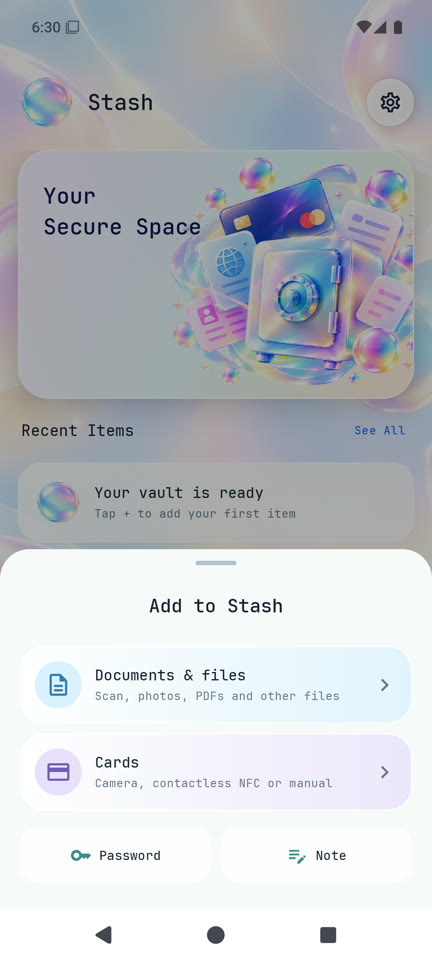
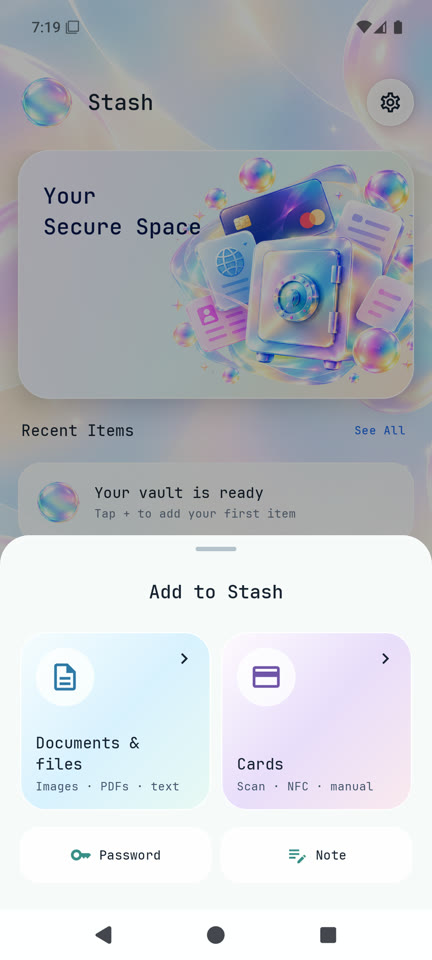
Polish add picker and document review

diff --git a/app/src/main/java/com/lockr/app/ReviewItemScreen.kt b/app/src/main/java/com/lockr/app/ReviewItemScreen.kt
@@ -1,25 +1,37 @@
 package com.lockr.app
 
-import android.content.Context
 import androidx.compose.foundation.background
+import androidx.compose.foundation.border
 import androidx.compose.foundation.clickable
 import androidx.compose.foundation.layout.Arrangement
+import androidx.compose.foundation.layout.Box
 import androidx.compose.foundation.layout.Column
 import androidx.compose.foundation.layout.Row
 import androidx.compose.foundation.layout.Spacer
 import androidx.compose.foundation.layout.fillMaxSize
 import androidx.compose.foundation.layout.fillMaxWidth
 import androidx.compose.foundation.layout.height
+import androidx.compose.foundation.layout.heightIn
 import androidx.compose.foundation.layout.padding
+import androidx.compose.foundation.layout.size
 import androidx.compose.foundation.rememberScrollState
 import androidx.compose.foundation.shape.RoundedCornerShape
 import androidx.compose.foundation.verticalScroll
 import androidx.compose.material3.Button
-import androidx.compose.material3.FilterChip
+import androidx.compose.material3.AlertDialog
+import androidx.compose.material3.Icon
 import androidx.compose.material3.MaterialTheme
 import androidx.compose.material3.OutlinedTextField
+import androidx.compose.material3.OutlinedTextFieldDefaults
 import androidx.compose.material3.Text
+import androidx.compose.material3.TextButton
 import androidx.compose.material.icons.Icons
+import androidx.compose.material.icons.outlined.Badge
+import androidx.compose.material.icons.outlined.Folder
+import androidx.compose.material.icons.outlined.MedicalServices
+import androidx.compose.material.icons.outlined.ReceiptLong
+import androidx.compose.material.icons.outlined.Shield
+import androidx.compose.material.icons.outlined.TextSnippet
 import androidx.compose.material.icons.outlined.Visibility
 import androidx.compose.material.icons.outlined.VisibilityOff
 import androidx.compose.runtime.Composable
@@ -30,9 +42,12 @@ import androidx.compose.runtime.remember
 import androidx.compose.runtime.setValue
 import androidx.compose.ui.Modifier
 import androidx.compose.ui.draw.clip
+import androidx.compose.ui.graphics.Brush
 import androidx.compose.ui.graphics.Color
+import androidx.compose.ui.graphics.vector.ImageVector
 import androidx.compose.ui.platform.LocalContext
 import androidx.compose.ui.unit.dp
+import androidx.compose.ui.unit.sp
 
 @Composable
 fun ReviewItemScreen(
@@ -43,24 +58,20 @@ fun ReviewItemScreen(
 ) {
     val context = LocalContext.current
     var title by remember(attachments) { mutableStateOf(suggestedItemTitle(attachments.firstOrNull()?.name.orEmpty(), "")) }
+    var titleTouched by remember(attachments) { mutableStateOf(false) }
     var documentGroup by remember(attachments) { mutableStateOf("Other") }
     var extractedText by remember(attachments) { mutableStateOf("") }
     var isRecognizing by remember(attachments) { mutableStateOf(true) }
-    var ocrMessage by remember(attachments) { mutableStateOf("Reading text on this device…") }
     var showExtractedText by remember { mutableStateOf(false) }
 
     LaunchedEffect(attachments) {
         isRecognizing = true
         val extracted = mutableListOf<String>()
-        var anySupported = false
         attachments.forEach { attachment ->
             try {
                 val text = recognizeAttachmentText(context, attachment)
                 if (text.isNotBlank()) {
-                    anySupported = true
                     extracted += "${attachment.name}\n${redactPaymentSecrets(text)}"
-                } else if (attachment.mimeType.startsWith("image/") || attachment.mimeType == "application/pdf" || attachment.mimeType.startsWith("text/")) {
-                    anySupported = true
                 }
             } catch (_: Exception) {
                 // The original attachment remains savable if local OCR cannot process it.
@@ -68,63 +79,68 @@ fun ReviewItemScreen(
         }
         extractedText = extracted.joinToString("\n\n").take(120_000)
         documentGroup = suggestedDocumentGroup(attachments.firstOrNull()?.name.orEmpty(), extractedText)
-        title = suggestedItemTitle(attachments.firstOrNull()?.name.orEmpty(), extractedText)
-        ocrMessage = when {
-            extractedText.isNotBlank() -> "Text extracted locally · review before saving"
-            anySupported -> "No readable text found. The original file can still be saved."
-            else -> "Text recognition is not available for this file type. The original can still be saved."
-        }
+        if (!titleTouched) title = suggestedItemTitle(attachments.firstOrNull()?.name.orEmpty(), extractedText)
         isRecognizing = false
     }
 
     Column(modifier.fillMaxSize().padding(horizontal = 20.dp)) {
-        StashTopBar(title = "Review document", subtitle = "Check the file before saving", onBack = onBack)
+        StashTopBar(title = "Review document", onBack = onBack)
         Column(Modifier.weight(1f).verticalScroll(rememberScrollState()), verticalArrangement = Arrangement.spacedBy(16.dp)) {
             attachments.firstOrNull()?.let { first ->
-                VaultAttachmentPreview(first, Modifier.fillMaxWidth().height(272.dp))
+                Box(Modifier.fillMaxWidth().clip(RoundedCornerShape(23.dp))
+                    .background(Color.White.copy(alpha = 0.91f)).border(1.dp, Color.White, RoundedCornerShape(23.dp))
+                    .padding(7.dp)) {
+                    VaultAttachmentPreview(first, Modifier.fillMaxWidth().height(265.dp))
+                }
             }
             if (attachments.size > 1) {
-                Text("${attachments.size} pages or files", color = LockrColors.TextSecondary, style = MaterialTheme.typography.bodySmall)
+                Text("${attachments.size} pages or files", color = LockrColors.TextPrimary, style = MaterialTheme.typography.bodyMedium)
                 VaultAttachmentsSection(attachments.drop(1), Modifier.fillMaxWidth())
             }
-            OutlinedTextField(
-                value = title,
-                onValueChange = { title = it.take(80) },
-                label = { Text("Title") },
-                singleLine = true,
-                shape = RoundedCornerShape(17.dp),
-                modifier = Modifier.fillMaxWidth()
-            )
-            Column {
-                Text("Document group", style = MaterialTheme.typography.titleSmall, color = LockrColors.TextPrimary)
-                Column(Modifier.padding(top = 5.dp), verticalArrangement = Arrangement.spacedBy(2.dp)) {
-                    listOf("Identity", "Medical", "Bills", "Insurance", "Other").chunked(3).forEach { groupRow ->
-                        Row(horizontalArrangement = Arrangement.spacedBy(5.dp)) {
-                            groupRow.forEach { group ->
-                                FilterChip(selected = documentGroup == group, onClick = { documentGroup = group }, label = { Text(group, maxLines = 1, softWrap = false) })
+            Column(Modifier.fillMaxWidth().clip(RoundedCornerShape(25.dp))
+                .background(Color(0xF5FFFFFF)).border(1.dp, Color.White, RoundedCornerShape(25.dp))
+                .padding(16.dp), verticalArrangement = Arrangement.spacedBy(14.dp)) {
+                Text("Document name", style = MaterialTheme.typography.titleSmall.copy(fontSize = 14.sp),
+                    color = LockrColors.TextPrimary)
+                OutlinedTextField(value = title, onValueChange = { title = it.take(80); titleTouched = true },
+                    placeholder = { Text("Name this document", color = LockrColors.TextSecondary) },
+                    singleLine = true, textStyle = MaterialTheme.typography.bodyLarge,
+                    shape = RoundedCornerShape(16.dp), modifier = Modifier.fillMaxWidth(),
+                    colors = OutlinedTextFieldDefaults.colors(
+                        focusedContainerColor = Color.White, unfocusedContainerColor = Color(0xFFF8FBFD),
+                        focusedTextColor = LockrColors.TextPrimary, unfocusedTextColor = LockrColors.TextPrimary,
+                        focusedBorderColor = LockrColors.Accent, unfocusedBorderColor = Color(0xFFBECBD8),
+                        cursorColor = LockrColors.Accent))
+                Text("Document group", style = MaterialTheme.typography.titleSmall.copy(fontSize = 14.sp),
+                    color = LockrColors.TextPrimary)
+                val groups = listOf(
+                    "Identity" to Icons.Outlined.Badge,
+                    "Medical" to Icons.Outlined.MedicalServices,
+                    "Bills" to Icons.Outlined.ReceiptLong,
+                    "Insurance" to Icons.Outlined.Shield,
+                    "Other" to Icons.Outlined.Folder
+                )
+                Column(verticalArrangement = Arrangement.spacedBy(8.dp)) {
+                    groups.chunked(2).forEach { groupRow ->
+                        Row(Modifier.fillMaxWidth(), horizontalArrangement = Arrangement.spacedBy(8.dp)) {
+                            groupRow.forEach { (label, icon) ->
+                                DocumentGroupTag(label, icon, documentGroup == label,
+                                    if (groupRow.size == 1) Modifier.fillMaxWidth() else Modifier.weight(1f)) {
+                                    documentGroup = label
+                                }
                             }
                         }
                     }
                 }
-            }
-            Column(
-                Modifier.fillMaxWidth().clip(RoundedCornerShape(20.dp)).background(Color.White.copy(alpha = 0.67f)).padding(14.dp)
-            ) {
-                Text("On-device recognition", style = MaterialTheme.typography.titleSmall, color = LockrColors.TextPrimary)
-                Text(ocrMessage, style = MaterialTheme.typography.bodySmall, color = LockrColors.TextSecondary, modifier = Modifier.padding(top = 4.dp))
                 if (extractedText.isNotBlank()) {
-                    Text(
-                        if (showExtractedText) "Hide extracted text" else "Review extracted text",
-                        color = LockrColors.Accent,
-                        style = MaterialTheme.typography.labelLarge,
-                        modifier = Modifier.clickable { showExtractedText = !showExtractedText }.padding(top = 10.dp)
-                    )
-                    if (showExtractedText) {
-                        Text(extractedText, style = MaterialTheme.typography.bodySmall, color = LockrColors.TextPrimary, modifier = Modifier.padding(top = 8.dp))
+                    TextButton(onClick = { showExtractedText = true }) {
+                        Icon(Icons.Outlined.TextSnippet, contentDescription = null, modifier = Modifier.size(19.dp))
+                        Text("View extracted text",
+                            style = MaterialTheme.typography.labelLarge.copy(fontSize = 13.sp),
+                            modifier = Modifier.padding(start = 8.dp))
                     }
                 }
             }
-            Text("Recognition is a suggestion. Your original files stay attached to the saved item.", color = LockrColors.TextSecondary, style = MaterialTheme.typography.bodySmall)
             Spacer(Modifier.height(8.dp))
         }
         Button(
@@ -138,8 +154,38 @@ fun ReviewItemScreen(
             enabled = title.isNotBlank() && !isRecognizing,
             modifier = Modifier.fillMaxWidth().padding(top = 10.dp, bottom = 10.dp).height(54.dp)
         ) {
-            Text(if (isRecognizing) "Recognizing…" else "Save document")
+            Text(if (isRecognizing) "Reading file…" else "Save document")
         }
+    }
+    if (showExtractedText) {
+        AlertDialog(onDismissRequest = { showExtractedText = false },
+            title = { Text("Extracted text", color = LockrColors.TextPrimary) },
+            text = {
+                Column(Modifier.heightIn(max = 400.dp).verticalScroll(rememberScrollState())) {
+                    Text(extractedText, style = MaterialTheme.typography.bodyMedium,
+                        color = LockrColors.TextPrimary)
+                }
+            },
+            confirmButton = { TextButton(onClick = { showExtractedText = false }) { Text("Done") } },
+            containerColor = Color.White, shape = RoundedCornerShape(24.dp))
+    }
+}
+
+@Composable
+private fun DocumentGroupTag(label: String, icon: ImageVector, selected: Boolean,
+                             modifier: Modifier = Modifier, onClick: () -> Unit) {
+    val shape = RoundedCornerShape(15.dp)
+    val fill = if (selected) Brush.horizontalGradient(listOf(Color(0xFFD8F3F0), Color(0xFFE7EEFF)))
+        else Brush.horizontalGradient(listOf(Color.White, Color(0xFFF7F9FD)))
+    Row(modifier.height(48.dp).clip(shape).background(fill)
+        .border(1.dp, if (selected) Color(0xFF55A8A0) else Color(0xFFD3DEE8), shape)
+        .clickable(onClick = onClick).padding(horizontal = 10.dp),
+        verticalAlignment = androidx.compose.ui.Alignment.CenterVertically,
+        horizontalArrangement = Arrangement.spacedBy(7.dp)) {
+        Icon(icon, contentDescription = null,
+            tint = if (selected) Color(0xFF197E77) else Color(0xFF536C8F), modifier = Modifier.size(18.dp))
+        Text(label, style = MaterialTheme.typography.labelLarge.copy(fontSize = 12.sp),
+            color = LockrColors.TextPrimary, maxLines = 1)
     }
 }
 

diff --git a/app/src/main/java/com/lockr/app/AddSourceSheet.kt b/app/src/main/java/com/lockr/app/AddSourceSheet.kt
@@ -12,6 +12,7 @@ import androidx.compose.foundation.layout.fillMaxWidth
 import androidx.compose.foundation.layout.height
 import androidx.compose.foundation.layout.padding
 import androidx.compose.foundation.layout.size
+import androidx.compose.ui.draw.clip
 import androidx.compose.foundation.shape.CircleShape
 import androidx.compose.foundation.shape.RoundedCornerShape
 import androidx.compose.material.icons.Icons
@@ -35,6 +36,7 @@ import androidx.compose.ui.graphics.Brush
 import androidx.compose.ui.graphics.Color
 import androidx.compose.ui.graphics.vector.ImageVector
 import androidx.compose.ui.unit.dp
+import androidx.compose.ui.unit.sp
 
 enum class AddStage { CHOOSE, DOCUMENT, CARD }
 
@@ -73,11 +75,14 @@ fun AddSourceSheet(
         Spacer(Modifier.height(18.dp))
         when (stage) {
             AddStage.CHOOSE -> {
-                WideSource("Documents & files", "Scan, photos, PDFs and other files", Icons.Outlined.Description,
-                    Color(0xFFDBF1FF), Color(0xFF377CB2)) { onStageChange(AddStage.DOCUMENT) }
-                Spacer(Modifier.height(9.dp))
-                WideSource("Cards", "Camera, contactless NFC or manual", Icons.Outlined.CreditCard,
-                    Color(0xFFE9E1FC), Color(0xFF745CB6)) { onStageChange(AddStage.CARD) }
+                Row(Modifier.fillMaxWidth(), horizontalArrangement = Arrangement.spacedBy(10.dp)) {
+                    VaultTypeCard("Documents & files", "Images · PDFs · text", Icons.Outlined.Description,
+                        listOf(Color(0xFFF7FCFF), Color(0xFFD9F1FF), Color(0xFFE9F9F4)),
+                        Color(0xFF2F79A8), Modifier.weight(1f)) { onStageChange(AddStage.DOCUMENT) }
+                    VaultTypeCard("Cards", "Scan · NFC · manual", Icons.Outlined.CreditCard,
+                        listOf(Color(0xFFFFFAFF), Color(0xFFE9DDFB), Color(0xFFFBE9EF)),
+                        Color(0xFF7054A8), Modifier.weight(1f)) { onStageChange(AddStage.CARD) }
+                }
                 Spacer(Modifier.height(16.dp))
                 Row(Modifier.fillMaxWidth(), horizontalArrangement = Arrangement.spacedBy(9.dp)) {
                     SmallSource("Password", Icons.Outlined.Key, Modifier.weight(1f)) { onManual(VaultCategory.PASSWORD) }
@@ -85,22 +90,13 @@ fun AddSourceSheet(
                 }
             }
             AddStage.DOCUMENT -> {
-                Text("Bring in one page or a whole document. Review the result before it is saved.",
-                    color = LockrColors.TextSecondary, style = MaterialTheme.typography.bodySmall,
-                    modifier = Modifier.padding(bottom = 15.dp))
                 Row(Modifier.fillMaxWidth(), horizontalArrangement = Arrangement.spacedBy(9.dp)) {
                     SourceTile("Camera", Icons.Outlined.CameraAlt, Color(0xFFDDF5EF), Color(0xFF278C82), Modifier.weight(1f)) { onCamera(VaultCategory.DOCUMENT) }
                     SourceTile("Photos", Icons.Outlined.Image, Color(0xFFE7F1FF), Color(0xFF477EB5), Modifier.weight(1f)) { onPhotos(VaultCategory.DOCUMENT) }
                     SourceTile("Files", Icons.Outlined.FolderOpen, Color(0xFFF2E8FB), Color(0xFF866BAE), Modifier.weight(1f)) { onFiles(VaultCategory.DOCUMENT) }
                 }
-                Text("Images, PDF and text files stay attached to the local item.",
-                    color = LockrColors.TextSecondary, style = MaterialTheme.typography.bodySmall,
-                    modifier = Modifier.padding(top = 14.dp))
             }
             AddStage.CARD -> {
-                Text("Choose how to add your card. Check every detected detail before saving.",
-                    color = LockrColors.TextSecondary, style = MaterialTheme.typography.bodySmall,
-                    modifier = Modifier.padding(bottom = 15.dp))
                 Row(Modifier.fillMaxWidth(), horizontalArrangement = Arrangement.spacedBy(9.dp)) {
                     SourceTile("Scan card", Icons.Outlined.CameraAlt, Color(0xFFDDF5EF), Color(0xFF278C82), Modifier.weight(1f)) { onCamera(VaultCategory.CARD) }
                     SourceTile("Photos", Icons.Outlined.Image, Color(0xFFE7F1FF), Color(0xFF477EB5), Modifier.weight(1f)) { onPhotos(VaultCategory.CARD) }
@@ -111,28 +107,33 @@ fun AddSourceSheet(
                     SmallSource("Tap with NFC", Icons.Outlined.Nfc, Modifier.weight(1f), onNfc)
                     SmallSource("Enter manually", Icons.Outlined.CreditCard, Modifier.weight(1f), onCardManual)
                 }
-                Text("NFC works only when a card exposes readable details. You can always scan or enter it manually.",
-                    color = LockrColors.TextSecondary, style = MaterialTheme.typography.bodySmall,
-                    modifier = Modifier.padding(top = 13.dp))
             }
         }
     }
 }
 
 @Composable
-private fun WideSource(title: String, subtitle: String, icon: ImageVector, glow: Color, tint: Color, onClick: () -> Unit) {
-    Row(Modifier.fillMaxWidth().height(74.dp)
-        .background(Brush.horizontalGradient(listOf(Color(0xF8FFFFFF), glow.copy(alpha = 0.78f))), RoundedCornerShape(23.dp))
-        .border(1.dp, Color.White, RoundedCornerShape(23.dp)).clickable(onClick = onClick)
-        .padding(horizontal = 14.dp), verticalAlignment = Alignment.CenterVertically) {
-        Box(Modifier.size(45.dp).background(glow, CircleShape), contentAlignment = Alignment.Center) {
-            Icon(icon, contentDescription = null, tint = tint, modifier = Modifier.size(25.dp))
+private fun VaultTypeCard(title: String, subtitle: String, icon: ImageVector, colors: List<Color>, tint: Color,
+                          modifier: Modifier, onClick: () -> Unit) {
+    val shape = RoundedCornerShape(25.dp)
+    Column(modifier.height(170.dp).clip(shape).background(Brush.linearGradient(colors))
+        .border(1.dp, Color.White, shape).clickable(onClick = onClick).padding(15.dp),
+        verticalArrangement = Arrangement.SpaceBetween) {
+        Row(Modifier.fillMaxWidth(), horizontalArrangement = Arrangement.SpaceBetween,
+            verticalAlignment = Alignment.Top) {
+            Box(Modifier.size(56.dp).background(Color.White.copy(alpha = 0.76f), CircleShape),
+                contentAlignment = Alignment.Center) {
+                Icon(icon, contentDescription = null, tint = tint, modifier = Modifier.size(31.dp))
+            }
+            Icon(Icons.Outlined.ChevronRight, contentDescription = null, tint = LockrColors.TextPrimary,
+                modifier = Modifier.size(21.dp))
         }
-        Column(Modifier.weight(1f).padding(start = 12.dp)) {
-            Text(title, style = MaterialTheme.typography.titleSmall, color = LockrColors.TextPrimary)
-            Text(subtitle, style = MaterialTheme.typography.bodySmall, color = LockrColors.TextSecondary)
+        Column {
+            Text(title, style = MaterialTheme.typography.titleMedium.copy(fontSize = 15.sp, lineHeight = 20.sp),
+                color = LockrColors.TextPrimary, maxLines = 2)
+            Text(subtitle, style = MaterialTheme.typography.bodySmall.copy(fontSize = 11.sp, lineHeight = 16.sp),
+                color = Color(0xFF43536D), maxLines = 2, modifier = Modifier.padding(top = 3.dp))
         }
-        Icon(Icons.Outlined.ChevronRight, contentDescription = null, tint = LockrColors.TextSecondary)
     }
 }
 
@@ -145,7 +146,7 @@ private fun SourceTile(label: String, icon: ImageVector, glow: Color, tint: Colo
         Box(Modifier.size(49.dp).background(glow, CircleShape), contentAlignment = Alignment.Center) {
             Icon(icon, contentDescription = null, tint = tint, modifier = Modifier.size(26.dp))
         }
-        Text(label, style = MaterialTheme.typography.labelLarge, color = LockrColors.TextPrimary,
+        Text(label, style = MaterialTheme.typography.labelLarge.copy(fontSize = 13.sp), color = LockrColors.TextPrimary,
             maxLines = 1, modifier = Modifier.padding(top = 7.dp))
     }
 }
@@ -156,7 +157,7 @@ private fun SmallSource(label: String, icon: ImageVector, modifier: Modifier, on
         .border(1.dp, Color.White, RoundedCornerShape(18.dp)).clickable(onClick = onClick).padding(horizontal = 11.dp),
         verticalAlignment = Alignment.CenterVertically, horizontalArrangement = Arrangement.Center) {
         Icon(icon, contentDescription = null, tint = LockrColors.Accent, modifier = Modifier.size(21.dp))
-        Text(label, color = LockrColors.TextPrimary, style = MaterialTheme.typography.labelLarge,
+        Text(label, color = LockrColors.TextPrimary, style = MaterialTheme.typography.labelLarge.copy(fontSize = 12.sp),
             maxLines = 1, modifier = Modifier.padding(start = 7.dp))
     }
 }

diff --git a/README.md b/README.md
@@ -12,6 +12,10 @@ Stash is a local Android vault for cards, documents, passwords, and notes, built
 | --- | --- |
 | ![Card import methods](docs/screenshots/add-card.jpg) | ![Manual card review](docs/screenshots/card-review.jpg) |
 
+| Add documents | Review document |
+| --- | --- |
+| ![Document import choices](docs/screenshots/add-document.jpg) | ![Document review with local PDF recognition](docs/screenshots/document-review.jpg) |
+
 | Cards | Card detail |
 | --- | --- |
 | ![Cards collection with a temporary test import](docs/screenshots/cards.jpg) | ![Card detail with a temporary test import](docs/screenshots/card-detail.jpg) |
@@ -20,7 +24,7 @@ Stash is a local Android vault for cards, documents, passwords, and notes, built
 | --- | --- | --- |
 | ![Documents collection](docs/screenshots/documents.jpg) | ![Local profile](docs/screenshots/profile.jpg) | ![Security and export settings](docs/screenshots/settings.jpg) |
 
-The card screenshots show a temporary file imported during emulator testing. It was deleted afterward; a new vault starts empty.
+The card and document review screenshots use temporary files during emulator testing. They were deleted afterward; a new vault starts empty.
 
 ## Add and review
 
